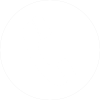
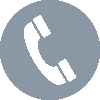
contact

diff --git a/src/app/sections/contact/contact.component.scss b/src/app/sections/contact/contact.component.scss
@@ -15,6 +15,7 @@
     position: relative;
     padding-top: 5%;
     padding-bottom: 5%;
+    color: var(--muted);
 }
 .envelope {
     margin: 0 0 0 -140px;
@@ -23,6 +24,7 @@
     box-sizing: border-box;
     width: 100%;
     font-family: sans-serif;
+    color: var(--muted);
 }
 .inputs {
     float: right;
@@ -54,6 +56,7 @@
 .copyrights {
     // padding: 16px;
     text-align: center;
+    color: var(--muted);
 }
 .footer {
     background-color: #263038;
@@ -68,5 +71,6 @@
 
 .phone {
     text-decoration: none;
-    color: lightblue;
+    // color: lightblue;
+    color: var(--muted);
 }
